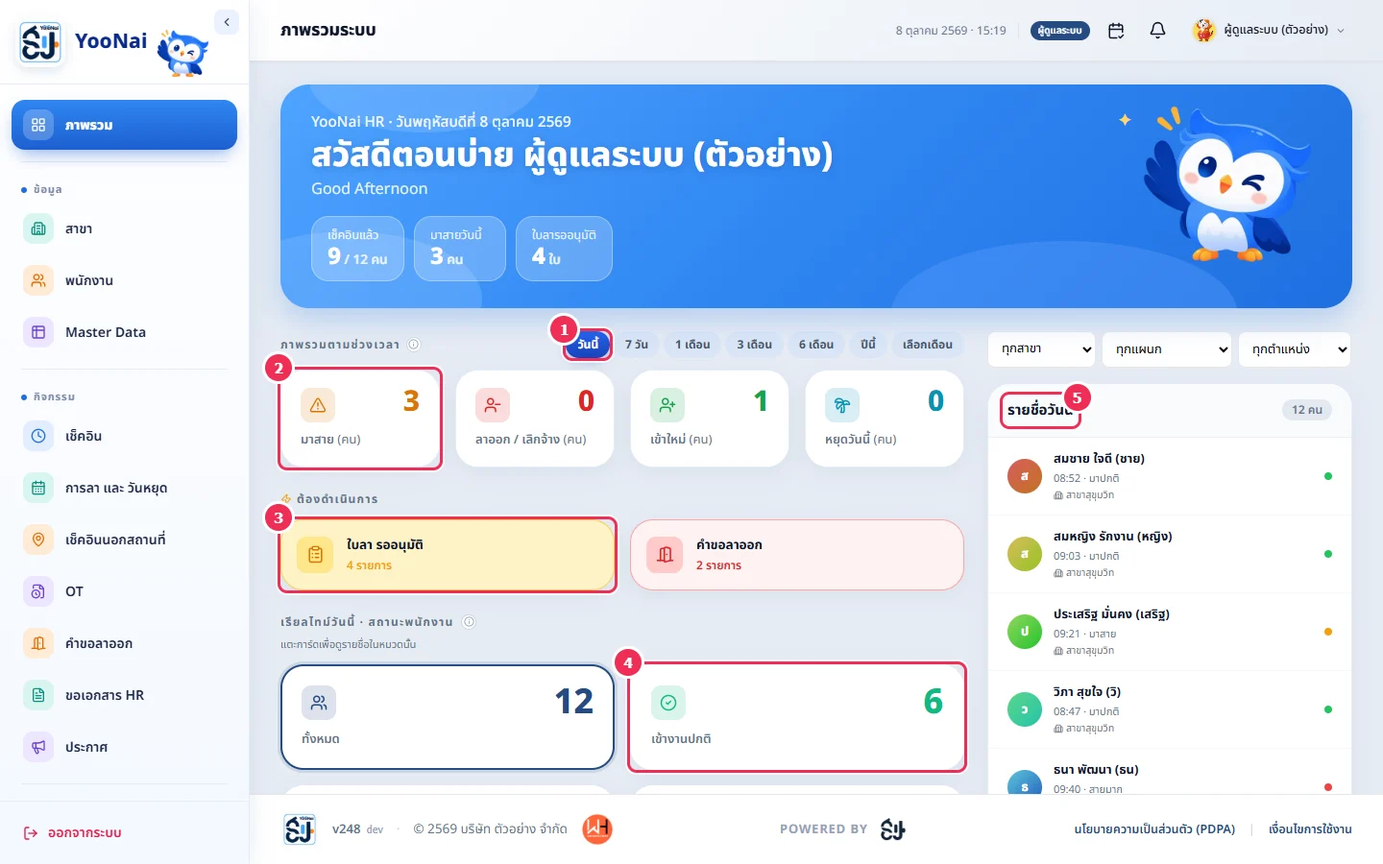
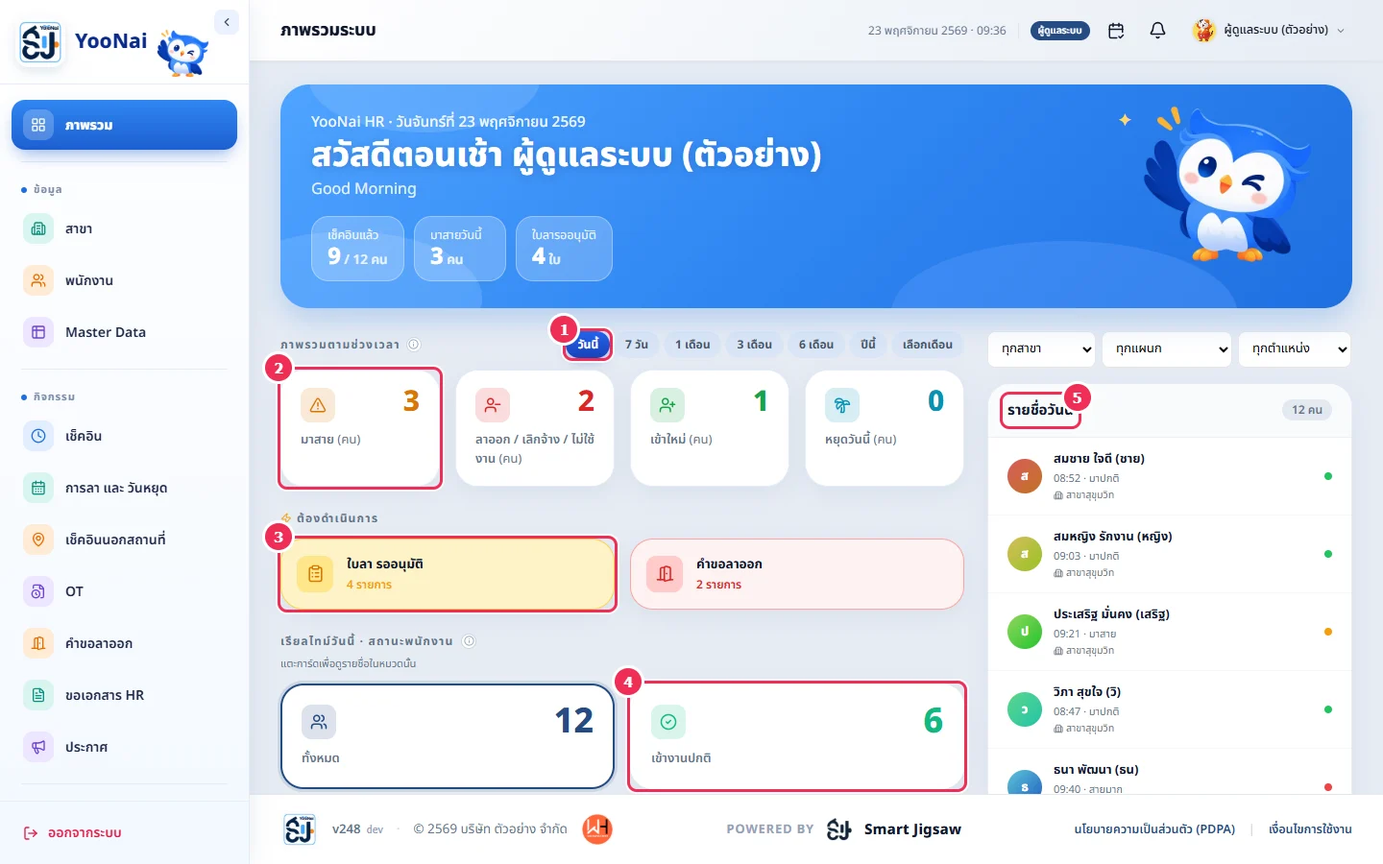
feat: dashboard counts inactive status with reason, quota page tweaks, update manual

diff --git a/admin/src/pages/manual/content.ts b/admin/src/pages/manual/content.ts
@@ -54,11 +54,11 @@ export const MANUAL: Category[] = [
       {
         id: 'dashboard', title: 'หน้าภาพรวม',
         intro: 'สรุปสถานะของวันนี้ไว้ในที่เดียว ใครมาสาย ใครยังไม่เช็คอิน และงานที่รอคุณดำเนินการ',
-        keywords: 'dashboard ภาพรวม การ์ด มาสาย เรียลไทม์ รายชื่อวันนี้',
+        keywords: 'dashboard ภาพรวม การ์ด มาสาย เรียลไทม์ รายชื่อวันนี้ ลาออก เลิกจ้าง ไม่ใช้งาน หมายเหตุ ปิดใช้งาน',
         blocks: [
           { type: 'steps', items: [
             'เลือก **ช่วงเวลา** (วันนี้ / 7 วัน / 1-6 เดือน / ปีนี้ / เลือกเดือน) การ์ดชุดบนจะเปลี่ยนตามช่วงที่เลือก',
-            'กดการ์ดใดก็ได้ (เช่น "มาสาย") เพื่อดูรายชื่อคนในการ์ดนั้น',
+            'กดการ์ดใดก็ได้ (เช่น "มาสาย") เพื่อดูรายชื่อคนในการ์ดนั้น — การ์ด **ลาออก / เลิกจ้าง / ไม่ใช้งาน** จะแสดงป้ายสถานะของแต่ละคน พร้อมวันที่มีผลและ **หมายเหตุ** ที่แอดมินกรอกตอนเปลี่ยนสถานะ',
             'กล่อง **ต้องดำเนินการ** แสดงงานค้าง เช่น ใบลารออนุมัติ — กดแล้วพาไปหน้านั้นทันที',
             'การ์ด **เรียลไทม์วันนี้** นับสถานะพนักงานตอนนี้ กดการ์ดเพื่อเปิดรายชื่อของหมวดนั้น',
             'คอลัมน์ขวา **รายชื่อวันนี้** แสดงเวลาเข้างานและสถานะของทุกคน กดชื่อเพื่อเปิดประวัติพนักงาน',
@@ -71,6 +71,7 @@ export const MANUAL: Category[] = [
             { n: 5, text: 'รายชื่อวันนี้ พร้อมเวลาเข้างาน' },
           ]),
           { type: 'note', tone: 'info', text: 'การ์ด **หยุด/ไม่ต้องเช็ค** นับคนที่ไม่มีบันทึกเช็คอินวันนี้เพราะลา/หยุดที่อนุมัติแล้ว หรือถูกตั้งเป็น "ไม่ต้องเช็คอิน" (เช่น ผู้บริหาร) — คนกลุ่มนี้ไม่ถูกนับเป็น "ยังไม่เช็ค" และตัวเลข "เช็คอินแล้ว 9 / 12 คน" ในแบนเนอร์ไม่นับรวมพวกเขา' },
+          { type: 'note', tone: 'info', text: 'การ์ด **ลาออก / เลิกจ้าง / ไม่ใช้งาน** นับคนที่ถูกเปลี่ยนสถานะเป็นอย่างใดอย่างหนึ่งในช่วงเวลาที่เลือก (ระบบมีสถานะปิดใช้งาน 3 แบบนี้) · ดู **หมายเหตุ** ได้โดยกดการ์ด แล้วอ่านบรรทัดใต้ชื่อ เช่น "มีผล 12 พ.ย. 69 · หมายเหตุ: ..." — ถ้าไม่ได้กรอกหมายเหตุตอนเปลี่ยนสถานะ จะไม่มีบรรทัดนี้' },
           { type: 'note', tone: 'info', text: 'จุดสีท้ายแถวในรายชื่อ: **เขียว** = มาปกติ · **ส้ม/แดง** = มาสาย (แดงคือสายมากกว่า)' },
         ],
       },
@@ -188,9 +189,9 @@ export const MANUAL: Category[] = [
         blocks: [
           { type: 'steps', items: [
             'กดแท็บ **สิทธิ์วันหยุด/การลา** ที่แถบด้านบนของหน้าพนักงาน',
-            'ป้ายสรุปด้านบนนับจำนวนพนักงานตามเงื่อนไข เช่น หยุดเสาร์ หยุดอาทิตย์ ยังไม่ตั้งสถานะ ปิดสิทธิ์จอง ปิดสิทธิ์ลา — กรองได้ด้วยสาขา/แผนก/ตำแหน่ง และค้นหาชื่อ',
+            'ป้ายสรุปด้านบนนับจำนวนพนักงานตามเงื่อนไข เช่น หยุดเสาร์ หยุดอาทิตย์ ยังไม่ตั้งสถานะ ปิดสิทธิ์จอง ปิดสิทธิ์ลา ไม่ปรับเงินเมื่อสาย — กรองได้ด้วยสาขา/แผนก/ตำแหน่ง และค้นหาชื่อ',
             'คอลัมน์ **เสาร์ / อาทิตย์ / นักขัตฤกษ์ / โควต้า** แสดงค่าที่ระบบคำนวณจริงแล้ว (มาจากสถานะพนักงาน → ตำแหน่ง → แผนก → ฝ่าย → สาขา → กลุ่ม) ถ้าจะเปลี่ยนให้แก้ที่ผังองค์กรหรือสถานะพนักงาน',
-            'แก้ได้ทันทีในตาราง 3 ช่อง: **สถานะพนักงาน** · **การจองวันหยุด** (ปิดการจอง / รายสัปดาห์ / รวมทั้งเดือน) · **สิทธิ์ยื่นลา** (ตามลำดับชั้น / บังคับเปิด / บังคับปิด เฉพาะคนนี้)',
+            'แก้ได้ทันทีในตาราง 4 ช่อง: **สถานะพนักงาน** · **การจองวันหยุด** (ปิดการจอง / รายสัปดาห์ / รวมทั้งเดือน) · **สิทธิ์ยื่นลา** (ตามลำดับชั้น / บังคับเปิด / บังคับปิด เฉพาะคนนี้) · **ปรับเงินเมื่อสาย** (ตามลำดับชั้น / บังคับปรับเงิน / บังคับไม่ปรับเงิน เฉพาะคนนี้)',
             'ถ้ามีคนที่ยังไม่ตั้งสถานะ จะมีแถบสีเหลืองให้เลือกสถานะแล้วกด **ตั้งให้ทั้งหมด** ได้ในครั้งเดียว',
             'กด **CSV** เพื่อส่งออกตาราง',
           ] },
@@ -202,7 +203,9 @@ export const MANUAL: Category[] = [
             { n: 5, text: 'เปลี่ยนสถานะพนักงานของคนนี้' },
             { n: 6, text: 'เลือกรูปแบบการจองวันหยุดของคนนี้' },
             { n: 7, text: 'บังคับเปิด/ปิดสิทธิ์ยื่นลาเฉพาะคนนี้' },
+            { n: 8, text: 'ปรับเงินเมื่อเช็คอินสายหรือไม่ เฉพาะคนนี้ (ช่องถัดจากสิทธิ์ยื่นลา)' },
           ]),
+          { type: 'note', tone: 'info', text: '**ปรับเงินเมื่อสาย:** "ตามลำดับชั้น" ถ้าไม่มีชั้นไหนตั้งไว้ = ปรับตามกะตามปกติ · "ไม่ปรับเงิน" = เช็คอินสายแล้วไม่โดนค่าปรับสายของกะ (ค่าปรับขาดงานยังคิดตามเดิม) · มีผลกับการเช็คอินครั้งถัดไป ไม่แก้ย้อนหลังรายการที่บันทึกไปแล้ว' },
           { type: 'note', tone: 'info', text: 'ถ้าไม่ได้ตั้งค่าเฉพาะบุคคล ระบบจะ **สืบทอดค่าจากชั้นบน** ตามลำดับ ตัวเลขที่เห็นในตารางคือผลลัพธ์สุดท้ายที่ใช้จริงอยู่ตอนนี้' },
         ],
       },
@@ -237,7 +240,7 @@ export const MANUAL: Category[] = [
         blocks: [
           { type: 'steps', items: [
             'กดแท็บ **กลุ่ม (บริษัท)** แล้วกด **+ เพิ่มกลุ่ม** เพื่อสร้างกลุ่ม',
-            'การ์ดของกลุ่มแสดงจำนวนสาขาและฝ่าย ป้ายสิทธิ์ (จองวันหยุดได้ / ลาได้) และสรุปกติกาเสาร์-อาทิตย์/โควต้า',
+            'การ์ดของกลุ่มแสดงจำนวนสาขาและฝ่าย ป้ายสิทธิ์ (จองวันหยุดได้ / ลาได้ / ไม่ปรับเงินเมื่อสาย) และสรุปกติกาเสาร์-อาทิตย์/โควต้า',
             'ชื่อสาขาที่อยู่ล่างการ์ด คือสาขาที่สังกัดกลุ่มนี้',
             'กด **ดูผังองค์กร** เพื่อข้ามไปดูโครงสร้างฝ่าย/แผนก/ตำแหน่งของกลุ่มนั้น',
             'กดดินสอเพื่อแก้ไขกลุ่ม หรือถังขยะเพื่อลบ',
@@ -250,6 +253,7 @@ export const MANUAL: Category[] = [
             { n: 5, text: 'แก้ไขกลุ่ม' },
             { n: 6, text: 'สาขาที่สังกัดกลุ่ม' },
           ]),
+          { type: 'note', tone: 'info', text: 'ตอนเพิ่ม/แก้ไขกลุ่ม มีตัวเลือก **ปรับเงินเมื่อเช็คอินสาย** (ตามกะ / ปรับเงิน / ไม่ปรับเงิน) เพิ่มจากสิทธิ์จอง/ลา — ฝ่าย แผนก ตำแหน่ง สาขา ก็มีตัวเลือกเดียวกัน ชั้นที่เจาะจงกว่าชนะ' },
           { type: 'note', tone: 'info', text: 'ค่าที่ตั้งที่กลุ่มเป็น **ค่าเริ่มต้นของทุกคนในกลุ่ม** — ชั้นล่าง (สาขา ฝ่าย แผนก ตำแหน่ง พนักงาน) ตั้งค่าของตัวเองทับได้' },
         ],
       },
@@ -306,7 +310,7 @@ export const MANUAL: Category[] = [
           { type: 'steps', items: [
             'กด **เพิ่มสาขา** แล้วกรอก **ชื่อสาขา** (จำเป็น)',
             'รหัสสาขาเว้นว่างได้ ระบบจะสร้างให้ — ใช้อ้างอิงสาขา และห้ามซ้ำกันในบริษัทเดียวกัน',
-            'เลือกสิทธิ์จองวันหยุด / สิทธิ์การลาของสาขา ถ้าไม่เปลี่ยนให้ใช้ "ใช้ค่าจากกลุ่ม"',
+            'เลือกสิทธิ์จองวันหยุด / สิทธิ์การลา / การปรับเงินเมื่อเช็คอินสายของสาขา ถ้าไม่เปลี่ยนให้ใช้ "ใช้ค่าจากกลุ่ม"',
             'กด **ถัดไป** เพื่อปักพิกัด GPS ตั้งรัศมี และเพิ่มกะ แล้วบันทึก',
           ] },
           img('branch-add', 'ฟอร์มเพิ่มสาขาใหม่', [
@@ -314,7 +318,7 @@ export const MANUAL: Category[] = [
             { n: 2, text: 'ชื่อสาขา (จำเป็น)' },
             { n: 3, text: 'รหัสสาขา — เว้นว่าง = ระบบสร้างให้' },
             { n: 4, text: 'ที่อยู่ / สถานที่ตั้ง' },
-            { n: 5, text: 'สิทธิ์จองวันหยุด/การลา: ใช้ค่าจากกลุ่ม หรือกำหนดเฉพาะสาขานี้' },
+            { n: 5, text: 'สิทธิ์จองวันหยุด/การลา/ปรับเงินเมื่อสาย: ใช้ค่าจากกลุ่ม หรือกำหนดเฉพาะสาขานี้' },
             { n: 6, text: 'ถัดไป' },
           ]),
           { type: 'note', tone: 'warn', text: 'ถ้าจำนวนสาขาเต็มตามแพ็กเกจ หรือรหัสสาขาซ้ำ ระบบจะแจ้งเตือนและไม่บันทึก' },
@@ -553,14 +557,14 @@ export const MANUAL: Category[] = [
       },
       {
         id: 'leave-tab-quota', title: 'โควต้าวันลา',
-        intro: 'กำหนดจำนวนวันลาสูงสุดต่อปีของพนักงานแต่ละคน — พนักงานลาเกินโควต้าไม่ได้',
+        intro: 'กำหนดจำนวนวันลาต่อปีของพนักงานแต่ละคน และดูว่าใครใช้ไปเท่าไร เหลือเท่าไร',
         keywords: 'โควต้า โควต้าวันลา ลาป่วย ลากิจ พักร้อน ลาชดเชย default แก้ไขแบบตาราง',
         blocks: [
           { type: 'steps', items: [
             'เลือกปีที่มุมขวาบน การ์ดสรุปแสดงจำนวนพนักงานทั้งหมด เกินโควต้า ใกล้หมด และปกติ — **กดการ์ดเพื่อกรองรายชื่อ**',
             'กด **โควต้า Default** เพื่อกำหนดค่าเริ่มต้นของ ลาป่วย / ลากิจ / พักร้อน / ลาชดเชย (วัน/ปี)',
             'กด **ใช้กับพนักงานทั้งหมด** เพื่อตั้งค่านี้ให้ทุกคน หรือ **ใช้กับพนักงานใหม่ที่ยังไม่มีโควต้า** เพื่อเติมเฉพาะคนที่ยังไม่เคยตั้ง',
-            'ตารางด้านล่างแสดง **ใช้ไปแล้ว / โควต้ารวม** ต่อประเภทการลา — แถบสีเขียว = ยังเหลือเยอะ · เหลือง = ใกล้หมด (≥ 80%) · แดง = เกินโควต้า',
+            'ตารางด้านล่างแสดง **ใช้ไปแล้ว / โควต้ารวม** ต่อประเภทการลา — แถบสีเขียว = ยังเหลือเยอะ · เหลือง = ใกล้หมด (≥ 80%) · แดง = เกินโควต้า · ใต้แถบของช่อง **พักร้อน** มีบรรทัด **เหลือ N วัน** (เขียว) / **เหลือ 0 วัน** (ส้ม) / **เกินมา N วัน** (แดง) ไม่ต้องคำนวณเอง',
             'กดดินสอท้ายแถวเพื่อแก้โควต้าทีละคน ดูวันที่ลาแต่ละประเภท หรือเพิ่ม/ลบวันย้อนหลังได้',
             'กด **แก้ไขแบบตาราง** เพื่อแก้โควต้าทุกคนพร้อมกันแบบ Excel · หรือติ๊กเลือกหลายคนแล้วกด **แก้ไขพร้อมกัน**',
           ] },
@@ -572,6 +576,7 @@ export const MANUAL: Category[] = [
             { n: 5, text: 'ค้นหาด้วยชื่อหรือชื่อเล่น' },
             { n: 6, text: 'เปิดตารางแก้โควต้าทุกคนพร้อมกัน' },
           ]),
+          { type: 'note', tone: 'info', text: 'พนักงานยื่นลาได้แม้โควต้าหมดหรือยังไม่ได้ตั้งโควต้า — ถ้าอนุมัติ ยอดคงเหลือจะติดลบ (แสดงเป็น "เกินโควต้า") แอดมินจึงควรดูโควต้าก่อนกดอนุมัติ' },
           { type: 'note', tone: 'warn', text: 'การ "ใช้กับพนักงานทั้งหมด" จะ **เขียนทับโควต้าที่เคยตั้งรายคน** ไว้ทั้งหมด — ถ้าต้องการรักษาค่าเดิมของบางคน ให้เลือก "เฉพาะพนักงานใหม่" แทน' },
         ],
       },

diff --git a/admin/src/pages/dashboard/index.tsx b/admin/src/pages/dashboard/index.tsx
@@ -24,7 +24,7 @@ import { buildMapData } from '../attendance/mapData'
 // ─── Range KPI types ────────────────────────────────────────────────────────
 type RangePreset = 'today' | '7d' | '1m' | '3m' | '6m' | 'year' | 'custom'
 
-interface RangePerson { id: string; first_name: string; last_name: string; nickname: string | null; employee_code: string; photo_url?: string | null; branch: { id: string; name: string } | null; late_count?: number }
+interface RangePerson { id: string; first_name: string; last_name: string; nickname: string | null; employee_code: string; photo_url?: string | null; branch: { id: string; name: string } | null; late_count?: number; status_to?: string; reason?: string | null; effective_date?: string | null }
 interface OffTodayPerson extends RangePerson { label: string }
 interface OffTodayResult { count: number; employees: OffTodayPerson[] }
 interface DashboardSummary {
@@ -65,15 +65,17 @@ function resolveRange(preset: RangePreset, customMonth: string): { startDate: st
   return { startDate: isoDate(start), endDate }
 }
 
+const STATUS_TO_TH: Record<string, string> = { RESIGNED: 'ลาออก', TERMINATED: 'เลิกจ้าง', INACTIVE: 'ไม่ใช้งาน' }
+
 function personLabel(p: RangePerson) {
   const full = `${p.first_name} ${p.last_name}`.trim()
   return p.nickname ? `${full} (${p.nickname})` : full
 }
 
 // ─── Range KPI card — คลิกแล้วเปิด popup รายชื่อ (เดิมขยายการ์ดในหน้า ทำให้การ์ดสูงไม่เท่ากัน ดันเลย์เอาต์) ────────────────────────────────────
-function RangeKpiCard({ label, count, unit, color, bg, icon, people, emptyLabel, extraLine }: {
+function RangeKpiCard({ label, count, unit, color, bg, icon, people, emptyLabel, extraLine, noteLine }: {
   label: string; count: number; unit: string; color: string; bg: string; icon: React.ReactNode
-  people: RangePerson[]; emptyLabel: string; extraLine?: (p: RangePerson) => string | null
+  people: RangePerson[]; emptyLabel: string; extraLine?: (p: RangePerson) => string | null; noteLine?: (p: RangePerson) => string | null
 }) {
   const [open, setOpen] = useState(false)
   return (
@@ -111,12 +113,14 @@ function RangeKpiCard({ label, count, unit, color, bg, icon, people, emptyLabel,
                 </div>
                 {g.items.map((p, i) => {
                   const extra = extraLine?.(p)
+                  const note = noteLine?.(p)
                   return (
                     <div key={p.id} style={{ display: 'flex', alignItems: 'center', gap: 12, padding: '11px 20px', borderBottom: i < g.items.length - 1 ? '1px solid #f1f5f9' : 'none' }}>
                       <PersonAvatar name={p.first_name || p.nickname || '?'} photoUrl={p.photo_url} size={38} />
                       <div style={{ flex: 1, minWidth: 0 }}>
                         <div style={{ fontSize: '13.5px', fontWeight: 700, color: 'var(--text-main)' }}>{personLabel(p)}</div>
                         <div style={{ fontSize: '11.5px', color: 'var(--text-muted)', marginTop: 1 }}>{p.employee_code}</div>
+                        {note && <div style={{ fontSize: '11.5px', color: '#475569', marginTop: 3, lineHeight: 1.4, wordBreak: 'break-word' }}>{note}</div>}
                       </div>
                       {extra && <span style={{ fontSize: '11.5px', fontWeight: 700, color, background: bg, borderRadius: 99, padding: '3px 10px', flexShrink: 0 }}>{extra}</span>}
                     </div>
@@ -160,7 +164,7 @@ function RangeKpiSection({ branchFilter, offToday }: { branchFilter: string; off
           ภาพรวมตามช่วงเวลา
           <InfoTooltip title="ภาพรวมแดชบอร์ด" width={300} content={
             <ul style={{ margin: 0, paddingLeft: 16 }}>
-              <li>สรุปข้อมูลพนักงานทั้งบริษัท แบ่งเป็นการ์ด KPI ตามช่วงเวลาที่เลือกด้านนี้ (มาสาย/ลาออก/เข้าใหม่) และสถานะเช็คอินวันนี้แบบเรียลไทม์ด้านล่าง</li>
+              <li>สรุปข้อมูลพนักงานทั้งบริษัท แบ่งเป็นการ์ด KPI ตามช่วงเวลาที่เลือกด้านนี้ (มาสาย/ลาออก-เลิกจ้าง-ไม่ใช้งาน/เข้าใหม่) และสถานะเช็คอินวันนี้แบบเรียลไทม์ด้านล่าง</li>
               <li>กดการ์ดไหนก็ได้เพื่อดูรายชื่อแบบละเอียด</li>
               <li>เลือกมุมมอง "ปีนี้" เพื่อดูเปอร์เซ็นต์อัตราลาออก/เข้าใหม่เทียบกับพนักงานทั้งหมดด้วย</li>
             </ul>
@@ -198,8 +202,14 @@ function RangeKpiSection({ branchFilter, offToday }: { branchFilter: string; off
             <RangeKpiCard label="มาสาย" unit="คน" count={summary.late.count} color="#d97706" bg="var(--warning-bg)"
               icon={<AlertTriangle size={18} />} people={summary.late.employees} emptyLabel="ไม่มีใครมาสายในช่วงนี้"
               extraLine={p => p.late_count ? `${p.late_count} ครั้ง` : null} />
-            <RangeKpiCard label="ลาออก / เลิกจ้าง" unit="คน" count={summary.resigned.count} color="#dc2626" bg="#fef2f2"
-              icon={<UserMinus size={18} />} people={summary.resigned.employees} emptyLabel="ไม่มีใครลาออกในช่วงนี้" />
+            <RangeKpiCard label="ลาออก / เลิกจ้าง / ไม่ใช้งาน" unit="คน" count={summary.resigned.count} color="#dc2626" bg="#fef2f2"
+              icon={<UserMinus size={18} />} people={summary.resigned.employees} emptyLabel="ไม่มีใครลาออกหรือถูกปิดใช้งานในช่วงนี้"
+              extraLine={p => STATUS_TO_TH[p.status_to ?? ''] ?? null}
+              noteLine={p => {
+                const d = p.effective_date ? `มีผล ${new Date(p.effective_date).toLocaleDateString('th-TH', { day: 'numeric', month: 'short', year: '2-digit' })}` : null
+                const parts = [d, p.reason ? `หมายเหตุ: ${p.reason}` : null].filter(Boolean)
+                return parts.length ? parts.join(' · ') : null
+              }} />
             <RangeKpiCard label="เข้าใหม่" unit="คน" count={summary.newHires.count} color="#16a34a" bg="var(--success-bg)"
               icon={<UserPlus size={18} />} people={summary.newHires.employees} emptyLabel="ไม่มีคนเข้าใหม่ในช่วงนี้" />
             {/* หยุดวันนี้ = ข้อมูลของ "วันนี้" เสมอ ไม่ตามช่วงเวลาที่เลือกด้านบน (ลา + วันหยุดประจำที่อนุมัติแล้ว) */}
@@ -214,7 +224,7 @@ function RangeKpiSection({ branchFilter, offToday }: { branchFilter: string; off
                 <div style={{ width: 36, height: 36, borderRadius: 10, background: '#fef2f2', display: 'flex', alignItems: 'center', justifyContent: 'center', color: '#dc2626', flexShrink: 0 }}><TrendingDown size={18} /></div>
                 <div>
                   <div style={{ fontSize: '20px', fontWeight: 800, color: '#dc2626' }}>{resignPct?.toFixed(1)}%</div>
-                  <div style={{ fontSize: '12px', color: 'var(--text-muted)', fontWeight: 600 }}>อัตราลาออก/เลิกจ้าง (จากพนักงานทั้งหมด {total} คน)</div>
+                  <div style={{ fontSize: '12px', color: 'var(--text-muted)', fontWeight: 600 }}>อัตราลาออก/เลิกจ้าง/ไม่ใช้งาน (จากพนักงานทั้งหมด {total} คน)</div>
                 </div>
               </div>
               <div className="premium-card" style={{ padding: '16px 20px', display: 'flex', alignItems: 'center', gap: 14 }}>

diff --git a/scripts/manual-shots/fixtures.js b/scripts/manual-shots/fixtures.js
@@ -148,7 +148,7 @@ function route(method, path, q) {
   if (p === '/admin/announcement-templates') return [{ id: 't1', name: 'แจ้งวันหยุดพิเศษ', title: 'แจ้งวันหยุดพิเศษ', content: 'บริษัทขอแจ้งวันหยุดพิเศษ...' }]
   if (p === '/admin/employees') return employees
   if (p === '/admin/tenant-settings') return { name: 'บริษัท ตัวอย่าง จำกัด', address: null, tax_id: '0000000000000', logo_url: null, primary_color: '#244B83', signer_name: null, signer_title: null, timezone: 'Asia/Bangkok' }
-  if (p === '/admin/dashboard/summary') { const lp = employees.filter((_, i) => [2, 4, 10].includes(i)).map(e => ({ id: e.id, first_name: e.first_name, last_name: e.last_name, nickname: e.nickname, employee_code: e.employee_code, branch: { id: e.branch_id, name: e.branch.name }, photo_url: null })); return { totalEmployees: employees.length, late: { count: 3, employees: lp }, resigned: { count: 0, employees: [] }, newHires: { count: 1, employees: lp.slice(0, 1) } } }
+  if (p === '/admin/dashboard/summary') { const lp = employees.filter((_, i) => [2, 4, 10].includes(i)).map(e => ({ id: e.id, first_name: e.first_name, last_name: e.last_name, nickname: e.nickname, employee_code: e.employee_code, branch: { id: e.branch_id, name: e.branch.name }, photo_url: null })); return { totalEmployees: employees.length, late: { count: 3, employees: lp }, resigned: { count: 2, employees: lp.slice(1, 3).map((e, i) => ({ ...e, status_to: i === 0 ? 'RESIGNED' : 'INACTIVE', reason: i === 0 ? 'ย้ายกลับต่างจังหวัด' : 'พักงานชั่วคราว', effective_date: '2026-11-12' })) }, newHires: { count: 1, employees: lp.slice(0, 1) } } }
   if (p === '/admin/dashboard/off-today') return { count: 0, employees: [] }
   if (p === '/admin/documents/expiring' || p === '/admin/probation/due' || p === '/admin/resignations') return []
   if (p === '/admin/branches') return branches

diff --git a/server/src/modules/dashboard/dashboard.service.ts b/server/src/modules/dashboard/dashboard.service.ts
@@ -41,11 +41,11 @@ export async function getDashboardSummary(tenantId: string, filters: {
   }
   const lateList = [...lateByEmployee.values()].sort((a, b) => b.count - a.count)
 
-  // ── ลาออก/เลิกจ้าง: จาก EmployeeStatusLog (dedupe รายคน เอาครั้งล่าสุดในช่วงนี้) ──
+  // ── ลาออก/เลิกจ้าง/ไม่ใช้งาน (ปิดใช้งานทุกประเภท) พร้อมหมายเหตุ: จาก EmployeeStatusLog (dedupe รายคน เอาครั้งล่าสุดในช่วงนี้) ──
   const resignLogs = await prisma.employeeStatusLog.findMany({
     where: {
       tenant_id: tenantId,
-      to_status: { in: ['RESIGNED', 'TERMINATED'] },
+      to_status: { in: ['RESIGNED', 'TERMINATED', 'INACTIVE'] },
       created_at: { gte: start, lte: end },
       ...(filters.branchId ? { employee: employeeBranchWhere(filters.branchId) } : {}),
       ...(filters.scopedEmployeeIds ? { employee_id: { in: filters.scopedEmployeeIds } } : {}),
@@ -55,9 +55,9 @@ export async function getDashboardSummary(tenantId: string, filters: {
     },
     orderBy: { created_at: 'desc' },
   })
-  const resignedByEmployee = new Map<string, (typeof resignLogs)[number]['employee']>()
+  const resignedByEmployee = new Map<string, (typeof resignLogs)[number]['employee'] & { status_to: string; reason: string | null; effective_date: Date | null }>()
   for (const log of resignLogs) {
-    if (!resignedByEmployee.has(log.employee_id)) resignedByEmployee.set(log.employee_id, log.employee)
+    if (!resignedByEmployee.has(log.employee_id)) resignedByEmployee.set(log.employee_id, { ...log.employee, status_to: log.to_status, reason: log.reason || null, effective_date: log.effective_date ?? null })
   }
   const resignedList = [...resignedByEmployee.values()]
 

diff --git a/admin/src/pages/leave-balance/index.tsx b/admin/src/pages/leave-balance/index.tsx
@@ -624,7 +624,7 @@ export default function LeaveBalancePage() {
               } />
             </h1>
             <p style={{ margin: '4px 0 0', fontSize: '0.85rem', color: '#64748b' }}>
-              กำหนดจำนวนวันลาสูงสุดต่อปีของพนักงานแต่ละคน — พนักงานลาเกินโควต้าไม่ได้
+              กำหนดจำนวนวันลาต่อปีของพนักงานแต่ละคน — ยื่นลาเกินโควต้าได้ ถ้าอนุมัติยอดจะติดลบ
             </p>
           </div>
           <div style={{ display: 'flex', gap: 8, alignItems: 'center' }}>

diff --git a/scripts/manual-shots/shots_def.js b/scripts/manual-shots/shots_def.js
@@ -188,7 +188,8 @@ module.exports = [
       { text: 'CSV', tag: 'button', n: 4 },
       { selector: 'tbody select, table select', nth: 0, n: 5 },
       { selector: 'tbody select, table select', nth: 1, n: 6 },
-      { selector: 'tbody select, table select', nth: 2, n: 7, side: 'tr' },
+      { selector: 'tbody select, table select', nth: 2, n: 7 },
+      { selector: 'tbody select, table select', nth: 3, n: 8, side: 'tr' },
     ] },
   { id: 'employee-tab-groups', path: 'employee?tab=groups',
     marks: [
